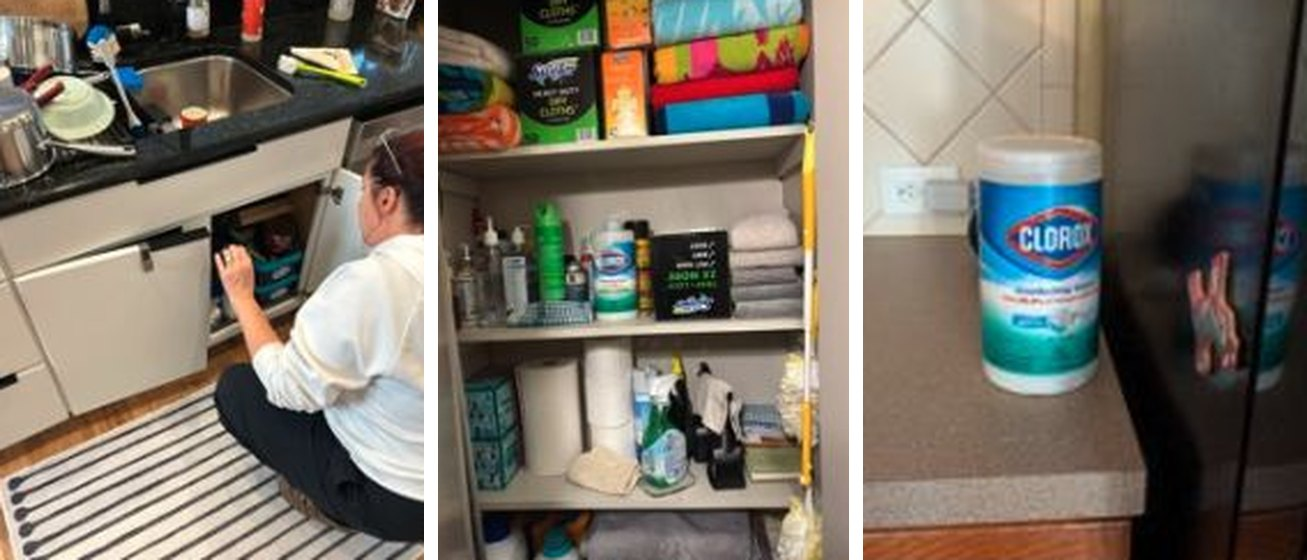
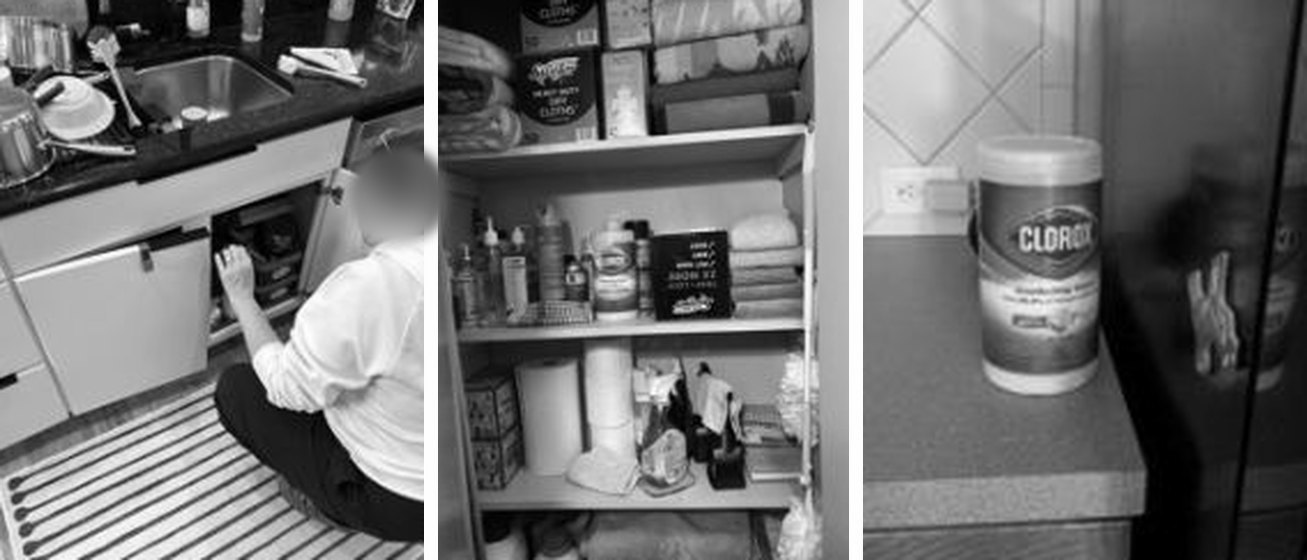
Draft: black-and-white discovery photos, faces blurred
Claude-Session: https://claude.ai/code/session_01Lm7r7dJX4Rp9GEpB2yc7Xt

diff --git a/projects/home-cleaning.html b/projects/home-cleaning.html
@@ -622,7 +622,7 @@ header.top .lede{margin:0;max-width:none}
     <article class="disc" id="d1">
       <p class="dnum">01 · Control</p>
       <h3>People control, robots execute.</h3>
-      <figure class="dimg"><img src="../images/cleaning-control.jpg?v=2" width="1311" height="560" alt="Participants docking a robot vacuum, a robot at its auto-empty dock, and a hand checking a mop pad" loading="lazy"><figcaption>Snippets from in-home visits</figcaption></figure>
+      <figure class="dimg"><img src="../images/cleaning-control.jpg?v=3" width="1311" height="560" alt="Participants docking a robot vacuum, a robot at its auto-empty dock, and a hand checking a mop pad" loading="lazy"><figcaption>Snippets from in-home visits</figcaption></figure>
       <dl class="dsteps">
         <div><dt>Team believed</dt><dd>Robots run best on preset schedules.</dd></div>
         <div><dt>Research showed</dt><dd>People ran robots when they were home, picked which rooms to clean, and adjusted settings by area. They also kept up regular care: emptying bins, cleaning filters, and washing mop pads.</dd></div>
@@ -633,7 +633,7 @@ header.top .lede{margin:0;max-width:none}
     <article class="disc" id="d2">
       <p class="dnum">02 · Ritual</p>
       <h3>Cleaning is part of the daily routine.</h3>
-      <figure class="dimg"><img src="../images/cleaning-ritual.jpg?v=2" width="1307" height="560" alt="A participant cleaning under the kitchen sink, a stocked cleaning shelf, and disinfecting wipes left out as a reminder" loading="lazy"><figcaption>Snippets from in-home visits</figcaption></figure>
+      <figure class="dimg"><img src="../images/cleaning-ritual.jpg?v=3" width="1307" height="560" alt="A participant cleaning under the kitchen sink, a stocked cleaning shelf, and disinfecting wipes left out as a reminder" loading="lazy"><figcaption>Snippets from in-home visits</figcaption></figure>
       <dl class="dsteps">
         <div><dt>Team believed</dt><dd>People clean on set cleaning days.</dd></div>
         <div><dt>Research showed</dt><dd>People cleaned in small steps through the day: while cooking, after the morning routine, and before guests, often with a TV or podcast on. Cleaning increased during illness.</dd></div>
@@ -644,7 +644,7 @@ header.top .lede{margin:0;max-width:none}
     <article class="disc" id="d3">
       <p class="dnum">03 · Health</p>
       <h3>Households managing a medical condition are a distinct, underserved segment.</h3>
-      <figure class="dimg"><img src="../images/cleaning-health.jpg?v=2" width="1024" height="440" alt="Shreya interviews a participant at her kitchen table" loading="lazy"><figcaption>In a participant’s home, led and moderated by Shreya</figcaption></figure>
+      <figure class="dimg"><img src="../images/cleaning-health.jpg?v=3" width="1024" height="440" alt="Shreya interviews a participant at her kitchen table" loading="lazy"><figcaption>In a participant’s home, led and moderated by Shreya</figcaption></figure>
       <dl class="dsteps">
         <div><dt>Team believed</dt><dd>Design vacuums for general cleaning tasks.</dd></div>
         <div><dt>Research showed</dt><dd>Allergies and other health needs shaped how often people cleaned, what they cleaned, and what they bought. <b>52% of participants with a medical condition owned an air purifier.</b></dd></div>
